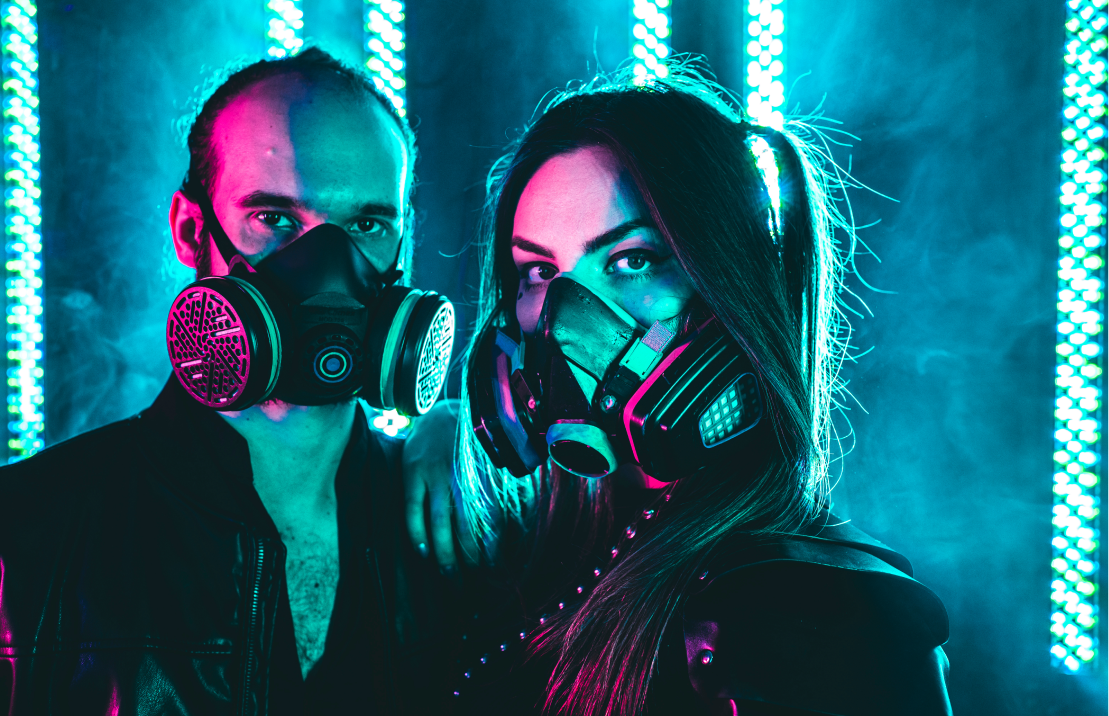
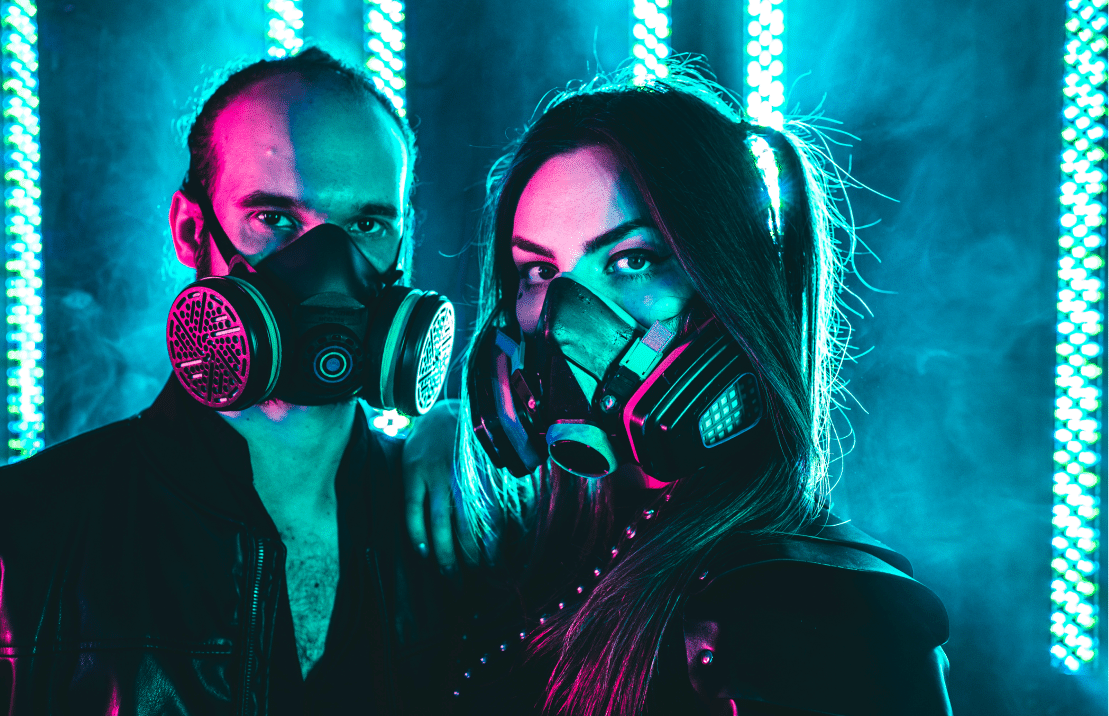
image resize and seo

diff --git a/components/CrossFade.tsx b/components/CrossFade.tsx
@@ -1,10 +1,4 @@
 import React, {useEffect, useState} from 'react'
-import SeboWana from "../public/static/images/SeboWana.png";
-import SeboGuitar from "../public/static/images/SeboGuitar.png";
-
-import Image from "next/image";
-
-import Mask from "../public/static/images/mask.png";
 import CrossFadeImage from "./CrossFadeImage";
 
 interface IProps {
@@ -48,11 +42,14 @@ const CrossFade = (props: IProps) => {
     return (
         <div className={'w-screen  flex flex-col items-center h-[calc(100vh)] relative overflow-hidden  '}>
             {props.children}
-            <CrossFadeImage animate={animStatusInstance === animStatus.ONE || animStatusInstance === animStatus.TWO} animateOpacity={animStatusInstance === animStatus.ONE} backgroundImage={("bg-[url('/static/images/SeboWana.png')] ")} animation={"translate-x-12"}/>
-            <CrossFadeImage animate={animStatusInstance === animStatus.TWO || animStatusInstance === animStatus.THREE} animateOpacity={animStatusInstance === animStatus.TWO} backgroundImage={("bg-[url('/static/images/oana.png')] ")} animation={"-translate-x-12"}/>
-            <CrossFadeImage animate={animStatusInstance === animStatus.THREE || animStatusInstance === animStatus.FOUR} animateOpacity={animStatusInstance === animStatus.THREE} backgroundImage={("bg-[url('/static/images/SeboGuitar.png')] ")} animation={"translate-y-12"}/>
-            <CrossFadeImage animate={animStatusInstance === animStatus.FOUR || animStatusInstance === animStatus.ONE}  animateOpacity={animStatusInstance === animStatus.FOUR} backgroundImage={("bg-[url('/static/images/mask.png')] ")} animation={"-translate-y-12"}/>
-
+            <CrossFadeImage animate={animStatusInstance === animStatus.ONE || animStatusInstance === animStatus.TWO} animateOpacity={animStatusInstance === animStatus.ONE} backgroundImage={("bg-[url('/static/images/sebowana.png')] ")}
+                            animation={"translate-x-12"}/>
+            <CrossFadeImage animate={animStatusInstance === animStatus.TWO || animStatusInstance === animStatus.THREE} animateOpacity={animStatusInstance === animStatus.TWO} backgroundImage={("bg-[url('/static/images/wana.png')] ")}
+                            animation={"-translate-x-12"}/>
+            <CrossFadeImage animate={animStatusInstance === animStatus.THREE || animStatusInstance === animStatus.FOUR} animateOpacity={animStatusInstance === animStatus.THREE} backgroundImage={("bg-[url('/static/images/seboguitar.png')] ")}
+                            animation={"translate-y-12"}/>
+            <CrossFadeImage animate={animStatusInstance === animStatus.FOUR || animStatusInstance === animStatus.ONE} animateOpacity={animStatusInstance === animStatus.FOUR} backgroundImage={("bg-[url('/static/images/mask.png')] ")}
+                            animation={"-translate-y-12"}/>
 
 
         </div>

diff --git a/pages/index.tsx b/pages/index.tsx
@@ -7,14 +7,15 @@ import ContentContainer from "../components/ContentContainer";
 import Backstabber from '../public/static/images/backstabber.png';
 import Flowers from '../public/static/images/flowersdontcare.png';
 
-import WakeUp from '../public/static/images/wakeup.jpg';
+import WakeUp from '../public/static/images/wakeup.png';
 import ArdeniteEntry, {EntryPosition} from "../components/ArdeniteEntry";
 import PopInButton from "../components/PopInButton";
-import {ArrowDown, ArrowDownCircle} from "react-feather";
+import {ArrowDown} from "react-feather";
 import Socials from "../components/Socials";
 import {FooterBar} from "../components/FooterBar";
 import {useInView} from "react-intersection-observer";
 import Section from "../components/Section";
+import {NextSeo} from "next-seo";
 
 const Home: NextPage = () => {
 
@@ -62,7 +63,27 @@ const Home: NextPage = () => {
     return (
         <>
             <FloatingNav floatingNavStatus={floatingNavStatus} scroller={scroller}/>
+            <NextSeo
+                title="Ardenite"
+                description="CYBER POP ROCK BAND FROM VIENNA"
+                openGraph={{
+                    url: "https://ardenite.net/",
+                    title: "Ardenite",
+                    description: "CYBER POP ROCK BAND FROM VIENNA",
+                    images: [
+                        {
+                            url: "https://asset.cloudinary.com/socialpoll/6c19417a869f269d45bef5d2ae96be6c",
+                            width: 1024,
+                            height: 682,
+                            alt: "Ardenite",
+                            type: "image/png",
+                        },
+                    ],
+                    site_name: "Ardenite",
 
+                }}
+
+            />
             <div className={"flex flex-col items-center w-screen h-full font-SourceSans "}>
                 <ArdeniteNavBar floatingNavStatus={floatingNavStatus} scroller={scroller}/>
                 <TopSection name="top">
